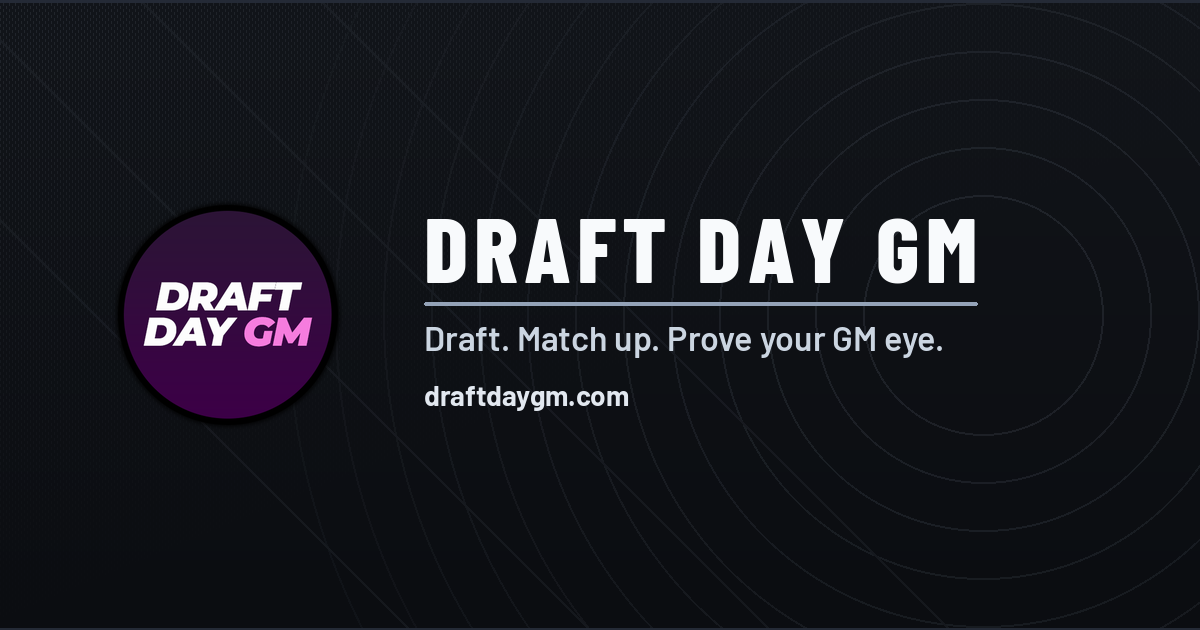
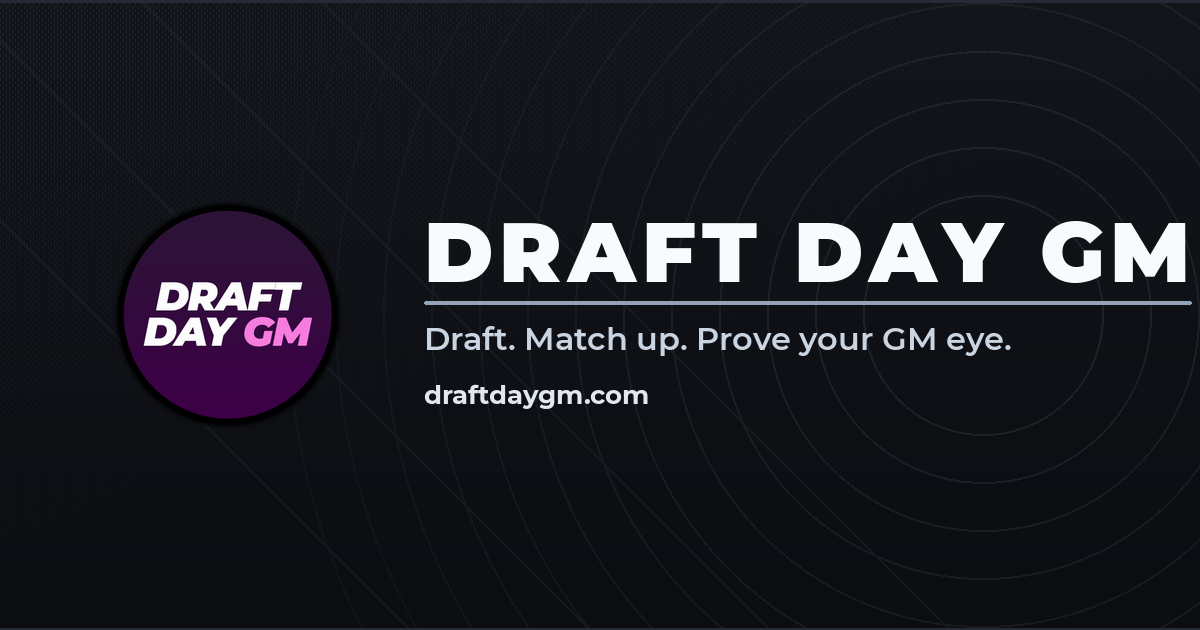
Switch site typography to Montserrat across weights
Replace Barlow / Barlow Condensed with Montserrat (500–900), keep the
existing weight roles for body/UI vs Black display moments, and update
share-card canvases, OG generation, and privacy copy to match.

Changed region(s): [[0.3392, 0.3317, 1.0, 0.4825], [0.3392, 0.5127, 0.8325, 0.573], [0.3392, 0.6032, 0.555, 0.6635]]

diff --git a/index.html b/index.html
@@ -20,7 +20,7 @@
       content="Draft. Match up. Prove your GM eye. Build NBA fives and compete in Casual or Pro Head to Head."
     />
     <meta property="og:url" content="https://www.draftdaygm.com/" />
-    <meta property="og:image" content="https://www.draftdaygm.com/og-share-v3.png" />
+    <meta property="og:image" content="https://www.draftdaygm.com/og-share-v4.png" />
     <meta property="og:image:type" content="image/png" />
     <meta property="og:image:width" content="1200" />
     <meta property="og:image:height" content="630" />
@@ -31,11 +31,11 @@
       name="twitter:description"
       content="Draft. Match up. Prove your GM eye. Build NBA fives and compete in Casual or Pro Head to Head."
     />
-    <meta name="twitter:image" content="https://www.draftdaygm.com/og-share-v3.png" />
+    <meta name="twitter:image" content="https://www.draftdaygm.com/og-share-v4.png" />
     <link rel="preconnect" href="https://fonts.googleapis.com" />
     <link rel="preconnect" href="https://fonts.gstatic.com" crossorigin />
     <link
-      href="https://fonts.googleapis.com/css2?family=Barlow+Condensed:wght@600;700;800&family=Barlow:wght@500;600;700;800;900&display=swap"
+      href="https://fonts.googleapis.com/css2?family=Montserrat:wght@500;600;700;800;900&display=swap"
       rel="stylesheet"
     />
     <script>

diff --git a/src/styles.css b/src/styles.css
@@ -1,11 +1,14 @@
 :root {
   color: #f8fafc;
   background: #0b0d11;
+  /* Montserrat weights in use:
+     500 Medium · 600 SemiBold · 700 Bold · 800 ExtraBold · 900 Black */
   --font-sans:
-    Barlow, ui-sans-serif, system-ui, -apple-system, BlinkMacSystemFont, "Segoe UI",
-    sans-serif;
+    Montserrat, ui-sans-serif, system-ui, -apple-system, BlinkMacSystemFont,
+    "Segoe UI", sans-serif;
   --font-display:
-    "Barlow Condensed", Barlow, ui-sans-serif, system-ui, sans-serif;
+    Montserrat, ui-sans-serif, system-ui, -apple-system, BlinkMacSystemFont,
+    "Segoe UI", sans-serif;
   font-family: var(--font-sans);
   font-synthesis: none;
   text-rendering: optimizeLegibility;
@@ -3855,9 +3858,9 @@ h1.landing-hub__title--name {
 .matchmaking-overlay__room-code {
   margin: 14px 0 0;
   text-align: center;
-  font-family: "Barlow Condensed", "Arial Narrow", sans-serif;
+  font-family: var(--font-display);
   font-size: 2.4rem;
-  font-weight: 800;
+  font-weight: 900;
   letter-spacing: 0.28em;
   color: #f8fafc;
 }
@@ -6761,7 +6764,7 @@ h1.landing-hub__title--name {
 
 .player-jersey__number {
   fill: #f8fafc;
-  font-family: "Arial Black", "Helvetica Neue", ui-sans-serif, system-ui, sans-serif;
+  font-family: var(--font-display);
   font-weight: 900;
   letter-spacing: normal;
   font-kerning: none;

diff --git a/src/lib/lineupShareCard.ts b/src/lib/lineupShareCard.ts
@@ -30,7 +30,7 @@ const ROW_HEIGHT = 104;
 const FOOTER_GAP = 36;
 const FOOTER_BOTTOM = 64;
 const FONT_STACK =
-  'Barlow, ui-sans-serif, system-ui, -apple-system, BlinkMacSystemFont, "Segoe UI", sans-serif';
+  'Montserrat, ui-sans-serif, system-ui, -apple-system, BlinkMacSystemFont, "Segoe UI", sans-serif';
 const STARTING_FIVE_Y = 220;
 const HEADER_TO_PLAYERS_GAP = 40;
 const CHEMISTRY_PILL_HEIGHT = 26;
@@ -133,7 +133,7 @@ const drawJerseyBadge = (
   context.stroke(collarPath);
 
   const fontSize = getJerseyNumberFontSize(number);
-  context.font = `900 ${fontSize}px "Arial Black", "Helvetica Neue", ${FONT_STACK}`;
+  context.font = `900 ${fontSize}px ${FONT_STACK}`;
   context.textAlign = "center";
   context.textBaseline = "middle";
   context.lineWidth = 0.9;

diff --git a/src/components/LegalPage.tsx b/src/components/LegalPage.tsx
@@ -149,9 +149,9 @@ function PrivacyPolicyContent() {
           <strong>Cloudflare</strong> — hosting, Pages, and database services
         </li>
         <li>
-          <strong>Google Fonts</strong> — the site loads the Barlow and Barlow
-          Condensed fonts from Google&apos;s servers, which may receive your IP
-          address and browser information when fonts are requested
+          <strong>Google Fonts</strong> — the site loads the Montserrat font
+          family from Google&apos;s servers, which may receive your IP address
+          and browser information when fonts are requested
         </li>
       </ul>
       <p>

diff --git a/src/lib/tierListShareCard.ts b/src/lib/tierListShareCard.ts
@@ -38,7 +38,7 @@ const CHIP_AVATAR_SIZE = 28;
 const CHIP_AVATAR_GAP = 8;
 const FOOTER_GAP = 40;
 const FONT_STACK =
-  'Barlow, ui-sans-serif, system-ui, -apple-system, BlinkMacSystemFont, "Segoe UI", sans-serif';
+  'Montserrat, ui-sans-serif, system-ui, -apple-system, BlinkMacSystemFont, "Segoe UI", sans-serif';
 
 const playerLabel = (player: TierListSharePlayer) =>
   `${player.name} · ${player.team} ${player.position}`;

diff --git a/scripts/generate_og_share.py b/scripts/generate_og_share.py
@@ -11,7 +11,7 @@ from PIL import Image, ImageDraw, ImageFont
 ROOT = Path(__file__).resolve().parents[1]
 OUT = ROOT / "public" / "og-share.png"
 # Versioned copy referenced by index.html meta tags (cache-bust for crawlers).
-OUT_VERSIONED = ROOT / "public" / "og-share-v3.png"
+OUT_VERSIONED = ROOT / "public" / "og-share-v4.png"
 LOGO = ROOT / "public" / "draft-day-gm-logo-v4.png"
 FONT_DIR = Path(__file__).resolve().parent / "fonts"
 
@@ -26,15 +26,18 @@ RULE = (148, 163, 184)  # #94a3b8
 URL = (226, 232, 240)  # #e2e8f0
 
 FONT_SOURCES = {
-    "BarlowCondensed-ExtraBold.ttf": (
-        "https://github.com/google/fonts/raw/main/ofl/barlowcondensed/"
-        "BarlowCondensed-ExtraBold.ttf"
+    # Static TTFs (variable-font weight picking is awkward in Pillow).
+    "Montserrat-Black.ttf": (
+        "https://github.com/JulietaUla/Montserrat/raw/master/fonts/ttf/"
+        "Montserrat-Black.ttf"
     ),
-    "Barlow-SemiBold.ttf": (
-        "https://github.com/google/fonts/raw/main/ofl/barlow/Barlow-SemiBold.ttf"
+    "Montserrat-SemiBold.ttf": (
+        "https://github.com/JulietaUla/Montserrat/raw/master/fonts/ttf/"
+        "Montserrat-SemiBold.ttf"
     ),
-    "Barlow-Bold.ttf": (
-        "https://github.com/google/fonts/raw/main/ofl/barlow/Barlow-Bold.ttf"
+    "Montserrat-Bold.ttf": (
+        "https://github.com/JulietaUla/Montserrat/raw/master/fonts/ttf/"
+        "Montserrat-Bold.ttf"
     ),
 }
 
@@ -111,9 +114,9 @@ def load_font(path: Path, size: int) -> ImageFont.FreeTypeFont:
 
 def main() -> None:
     fonts = ensure_fonts()
-    title_font = load_font(fonts["BarlowCondensed-ExtraBold.ttf"], 92)
-    tagline_font = load_font(fonts["Barlow-SemiBold.ttf"], 34)
-    url_font = load_font(fonts["Barlow-Bold.ttf"], 28)
+    title_font = load_font(fonts["Montserrat-Black.ttf"], 84)
+    tagline_font = load_font(fonts["Montserrat-SemiBold.ttf"], 32)
+    url_font = load_font(fonts["Montserrat-Bold.ttf"], 26)
 
     image = vertical_gradient((WIDTH, HEIGHT), BG_TOP, BG_BOTTOM)
     add_site_texture(image)
